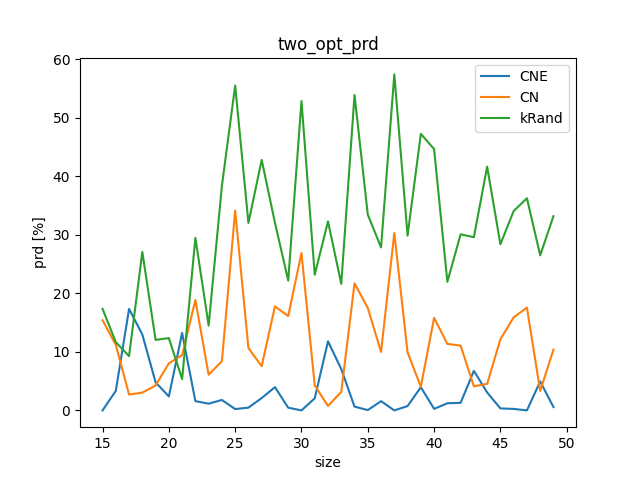
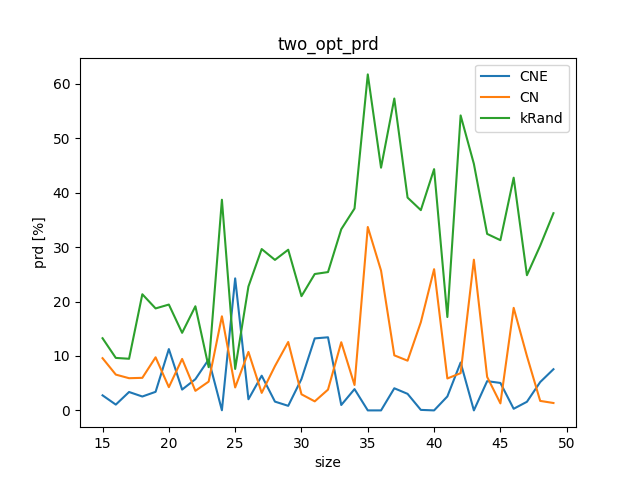
sa

diff --git a/src/Test.java b/src/Test.java
@@ -97,13 +97,54 @@ public class Test {
 //
 //        TestTSP.generateData();
 
-        TwoOptTest.generateData(30);
-//        KRandomTest.generateData();
+//
+//
+//       /        KRandomTest.generateData();
 //        int k = 20;
 //        Vector<Vector<Integer>> matrix = Algorithms.kRandom(k);
 //        for(int i=0; i<k; i++){
 //            System.out.println(Utils.calculateGoalFunction(matrix.get(i)));
 //        }
+
+
+
+        Vector<Vector<Integer>> x =RandomInstationGenerator.getEuclidean(15);
+        for(Vector<Integer> i: x){
+            System.out.println(i);
+        }
+
+        LoadDataTSP.loadData("gr120.tsp");
+        DataMatrix.format = LoadDataTSP.format;
+        DataMatrix.matrix = LoadDataTSP.matrix;
+        DataMatrix.type = LoadDataTSP.type;
+        DataMatrix.dimension = LoadDataTSP.dimension;
+        Vector<Integer> result1 = Algorithms.kRandom(10);
+        Vector<Integer> result2 = Algorithms.kRandom(1000);
+        Vector<Integer> result3 = Algorithms.kRandom(10000);
+        Vector<Integer> result4 = Algorithms.closestNeighbour(Utils.rand.nextInt(LoadDataTSP.dimension));
+        Vector<Integer> result5 = Algorithms.extendedClosestNeighbour();
+        Vector<Integer> result6 = Algorithms.twoOpt("KRand");
+        Vector<Integer> result7 = Algorithms.twoOpt("CNE");
+        Vector<Integer> result8 = Algorithms.twoOpt("CN");
+
+
+        System.out.println("krand 10 " + result1 + "\n" + Utils.calculateGoalFunction(result1) + " " + Utils.calculatePRD(6942, result1));
+        System.out.println("krand 1000 " + result2 + "\n" + Utils.calculateGoalFunction(result2)+ " " + Utils.calculatePRD(6942, result2));
+        System.out.println("krand 100000 " + result3 + "\n" + Utils.calculateGoalFunction(result3)+ " " + Utils.calculatePRD(6942, result3));
+        System.out.println("CN " + result4 + "\n" + Utils.calculateGoalFunction(result4)+ " " + Utils.calculatePRD(6942, result4));
+        System.out.println("CNE " + result5 + "\n" + Utils.calculateGoalFunction(result5)+ " " + Utils.calculatePRD(6942, result5));
+        System.out.println("2opt - krand " + result6 + "\n" + Utils.calculateGoalFunction(result6)+ " " + Utils.calculatePRD(6942, result6));
+        System.out.println("2opt - CNE " + result7 + "\n" + Utils.calculateGoalFunction(result7)+ " " + Utils.calculatePRD(6942, result7));
+        System.out.println("2opt - CN " + result8 + "\n" + Utils.calculateGoalFunction(result8)+ " " + Utils.calculatePRD(6942, result8));
+
+
+
+
+
+
+
+
+
 
     }
 

diff --git a/src/Algorithms.java b/src/Algorithms.java
@@ -83,7 +83,6 @@ public class Algorithms {
 
         Vector<Integer> result = new Vector<>();
         long smallestGoalFunctionValue = Long.MAX_VALUE ;
-
         for(int i =0 ; i < DataMatrix.dimension; i++){
 
             Vector<Integer> possibleResult = closestNeighbour(i);

diff --git a/src/Utils.java b/src/Utils.java
@@ -57,4 +57,11 @@ public class Utils {
 
     }
 
+
+    public static float calculatePRD(int optimalSolution, Vector<Integer> solution){
+
+        return  (float) (calculateGoalFunction(solution) - (optimalSolution))
+                *100 / (optimalSolution);
+
+    }
 }

diff --git a/out/production/AM_PROJ/script.py b/out/production/AM_PROJ/script.py
@@ -200,6 +200,6 @@ def algorithmsBenchmark():
 
 
 
-# twoOptPlot()
+twoOptPlot()
 # kRandomPlot()
-algorithmsBenchmark()
+# algorithmsBenchmark()
